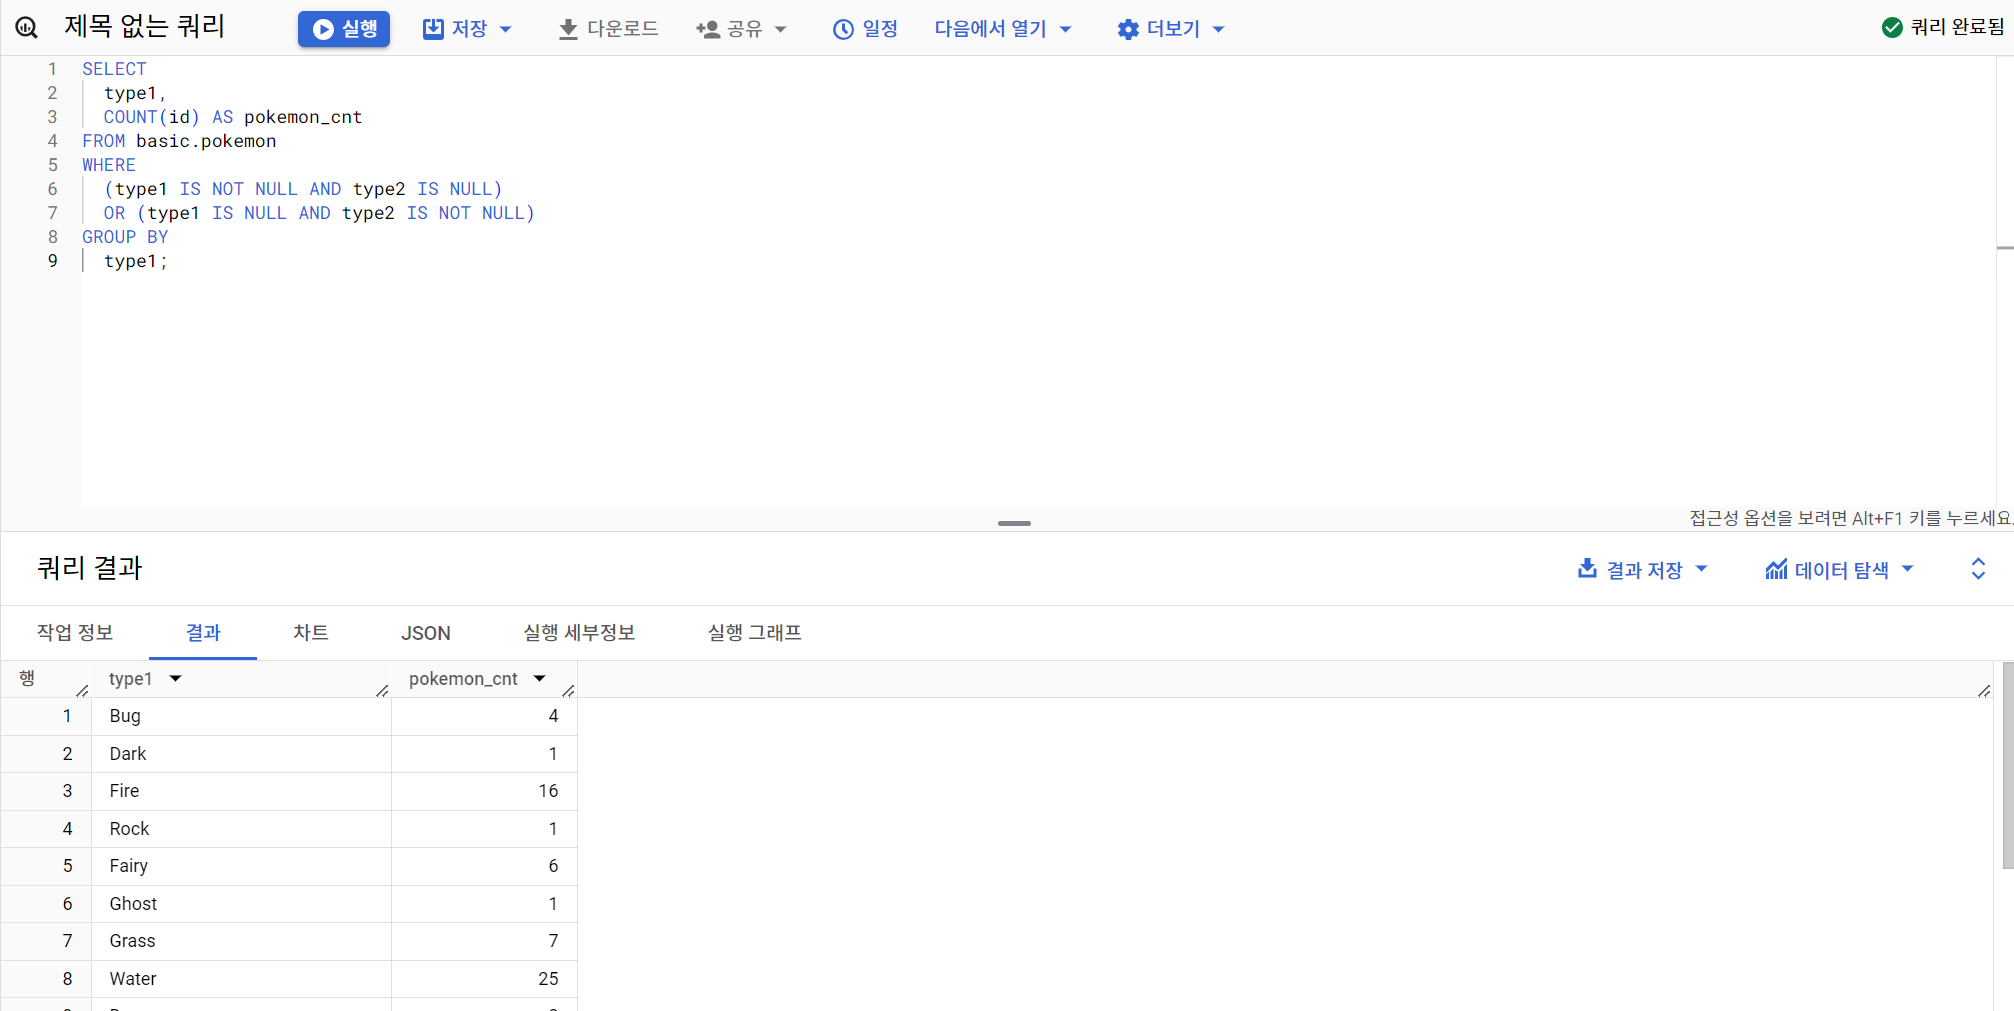
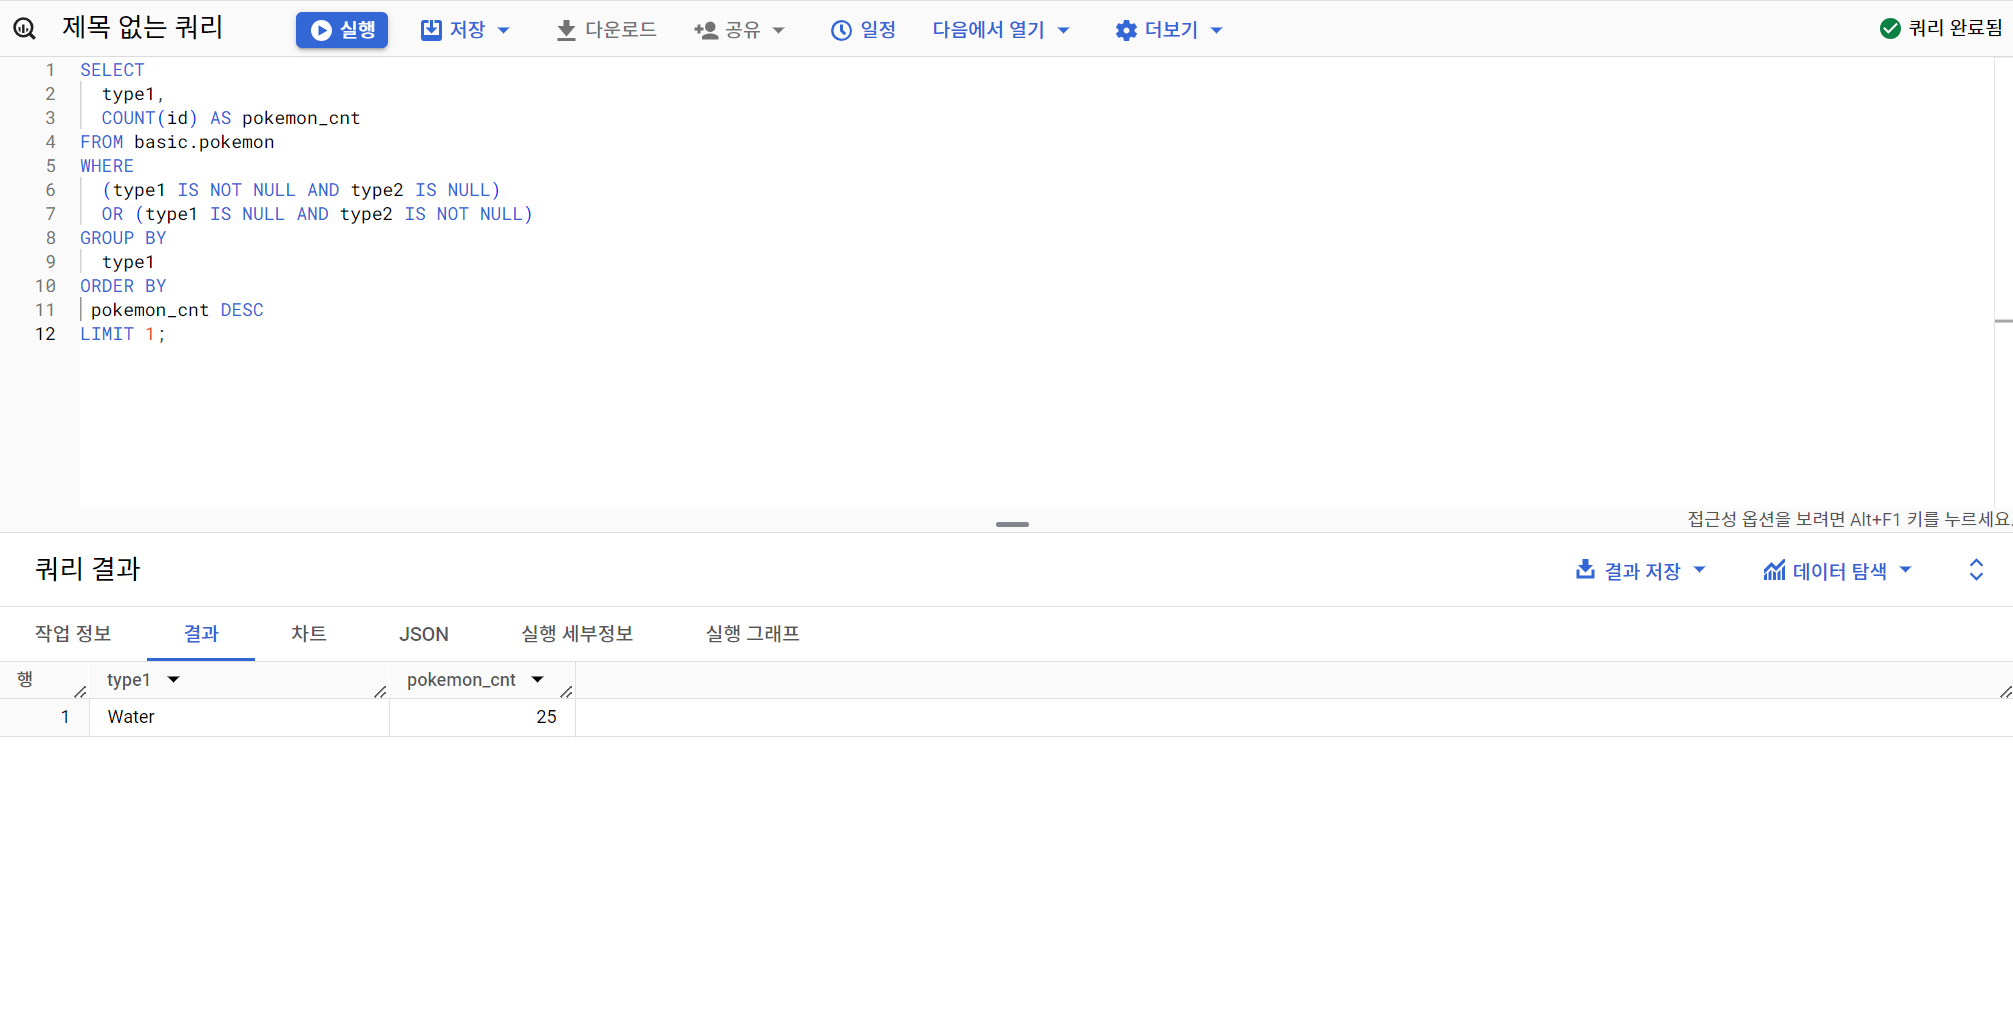
1

diff --git a/Basic Assignment/3rd Week.md b/Basic Assignment/3rd Week.md
@@ -390,7 +390,10 @@ WHERE
   (type1 IS NOT NULL AND type2 IS NULL)
   OR (type1 IS NULL AND type2 IS NOT NULL)
 GROUP BY 
-  type1;
+  type1
+ORDER BY
+ pokemon_cnt DESC
+LIMIT 1;
 ```
 #### 설명
 - 테이블: pokemon
@@ -406,43 +409,252 @@ FROM basic.pokemon
 WHERE 
   type2 IS NULL
 GROUP BY 
-  type1;
+  type1
+ORDER BY
+ pokemon_cnt DESC
+LIMIT 1;
 ```
-![내가 푼 거](/Basic%20Assignment/3rd_week_img/) |![image.jpg2](https://steemitimages.com/0x0/https://static.tasteem.io/uploads/image/image/7293/content_994dbe3f-631b-4f76-9ee1-751c87c668dd.jpeg)
+![내가 푼 거](/Basic%20Assignment/3rd_week_img/Q12.png) |![정답](/Basic%20Assignment/3rd_week_img/Q12_1.png)
+- 두 가지 방법이 있는 것 같은데 확인 한번만 부탁드립니다 :D
+
 ### 13. 포켓몬의 이름에 "파"가 들어가는 포켓몬은 어떤 포켓몬이 있을까요?
 #### 풀이
-* 보여줘야하는 것: 포켓몬 이름
+* 보여줘야하는 것: 포켓몬 이름:한글
 * 조건: 이름에 '파'
+```
+SELECT
+  kor_name
+FROM basic.pokemon
+WHERE
+ kor_name LIKE "파%";
+```
 #### 설명
+- 테이블:  pokemon
+- 조건: name에 '파'가 들어가는 포켓몬
+- 컬럼: 어떤 포켓몬이 있을까요? name
+- 집계: 없음
 #### 정답
+```
+SELECT
+  kor_name
+FROM basic.pokemon
+WHERE
+ kor_name LIKE "%파%";
+```
+- 컬럼 LIKE '특정단어%', %는 단어 앞뒤에 모두 붙을 수 있음
+  - '%파': 파로 끝나는 단어, '파%': 파로 시작하는 단어, '%파%': 파가 들어간 단어
+- 문자열 컬럼에서 특정 단어가 포함되어 있는지 알고 싶은 경우에는 LIKE를 사용하면 편함.
+![13번문제](/Basic%20Assignment/3rd_week_img/Q13.png)
 
 ### 14. 뱃지가 6개 이상인 트레이너는 몇 명이 있나요?
 #### 풀이
 * 보여줘야하는 것: 트레이너 수
 * 조건: 뱃지 >= 6
 * 트레이너 수: count 함수 -> GROUP BY
+```
+SELECT
+  badge_count
+  COUNT(id) AS trainer_cnt
+FROM basic.trainer
+WHERE 
+  badge_count >=6
+GROUP BY
+ badge_count;
+```
 #### 설명
+- 테이블: trainer
+- 조건: 뱃지가 6개 이상(badge_count >=)
+- 컬럼: X
+- 집계: 트레이너의 수(COUNT)
 #### 정답
+```
+SELECT
+  COUNT(id) AS trainer_cnt
+FROM basic.trainer
+WHERE 
+  badge_count >=6;
+```
+![14번문제](/Basic%20Assignment/3rd_week_img/Q14.png)
+#### GPT와 연습
+```
+-- 먼저 badge_count별로 trainer_cnt를 구하고, 그 결과를 서브쿼리로 감쌉니다
+SELECT 
+  CAST(badge_count AS STRING) AS badge_count, -- badge_count를 문자열로 변환
+  trainer_cnt
+FROM (
+  SELECT
+    badge_count,
+    COUNT(id) AS trainer_cnt
+  FROM basic.trainer
+  WHERE 
+    badge_count >= 6
+  GROUP BY
+    badge_count
+)
 
+UNION ALL
+
+-- 총합을 구하는 부분
+SELECT
+  'Total' AS badge_count,  -- 새 행에 "Total" 표시
+  SUM(trainer_cnt) AS trainer_cnt -- trainer_cnt의 합계
+FROM (
+  SELECT
+    badge_count,
+    COUNT(id) AS trainer_cnt
+  FROM basic.trainer
+  WHERE 
+    badge_count >= 6
+  GROUP BY
+    badge_count
+);
+```
+![14번연습](/Basic%20Assignment/3rd_week_img/T14.png)
+- UNION ALL을 사용해 합계 행을 추가
+- UNION ALL을 사용할 때 각 열의 데이터 유형이 일치해야 한다
+  - badge_count는 INT64 형식이지만 합계 행에서는 문자열 'Total'을 사용했기 때문에 문제 발생 -> CAST 또는 CONVERT 함수를 통해 badge_count를 문자열로 변환
+- Aggregations of aggregations are not allowed 오류
+  -  SQL에서는 집계 함수(SUM, COUNT 등)를 또 다른 집계 함수 안에 직접 사용하는 것이 허용되지 않음!
+  - 해결하려면 내부 쿼리를 사용하여 먼저 집계한 다음, 그 결과를 외부 쿼리에서 다시 집계해야 한다.
 ### 15. 트레이너가 보유한 포켓몬(trainer_pokemon)이 제일 많은 트레이너는 누구일까요?
 #### 풀이
-* 보여줘야하는 것: 트레이너 이름
-* 조건: trainer_pokemon이 max
-* MAX: 집계함수 -> GROUP BY
+* 보여줘야하는 것: 트레이너 이름(id)
+* 조건: X
+* 포켓몬 수 COUNT -> GROUP BY
+* 내림차순: DESC
+* LIMTI 1
+```
+SELECT
+ trainer_id,
+ count(pokemon_id) AS pokemon_cnt
+FROM basic.trainer_pokemon
+GROUP BY
+ trainer_id
+ORDER BY
+  cnt DESC
+LIMIT 1;
+```
 #### 설명
+- 테이블: trainer_pokemon
+- 조건: X
+- 컬럼: trainer_id
+- 집계: 포켓몬의 수 -> count
 #### 정답
-
+```
+SELECT
+ trainer_id,
+ count(pokemon_id) AS pokemon_cnt
+FROM basic.trainer_pokemon
+GROUP BY
+ trainer_id;
+```
+![15번문제](/Basic%20Assignment/3rd_week_img/Q15.png)
+- 종류를 보려면 'count(DISTINCT pokemon_id) 사용하기'
 ### 16. 포켓몬을 가장 많이 풀어준 트레이너는 누구일까요?
 #### 풀이
 * 보여줘야하는 것: 트레이너 이름
-* 조건: 풀어준 포켓몬이 max
-* MAX: 집계함수 -> GROUP BY
+* 조건: 풀린 포켓몬
+* 풀린 포켓몬 수 COUNT : 집계함수 -> GROUP BY
+* 내림차순: DESC
+* LIMTI 1
+```
+SELECT
+ trainer_id,
+ count(pokemon_id) AS pokemon_cnt
+FROM basic.trainer_pokemon
+WHERE
+ status = "Released"
+GROUP BY
+ trainer_id
+ORDER BY
+  pokemon_cnt DESC
+LIMIT 1;
+```
 #### 설명
+- 테이블: trainer_pokemon
+- 조건: status = "Released"(풀어준)
+- 컬럼: trainer_id
+- 집계: 많이 풀어준 -> COUNT
 #### 정답
+```
+SELECT
+ trainer_id,
+ count(pokemon_id) AS pokemon_cnt
+FROM basic.trainer_pokemon
+WHERE
+ status = "Released"
+GROUP BY
+ trainer_id
+ORDER BY
+  pokemon_cnt DESC
+LIMIT 1;
+```
+![16번문제](/Basic%20Assignment/3rd_week_img/Q16.png)
 
 ### 17. 트레이너 별로 풀어준 포켓몬의 비율이 20%가 넘은 포켓몬 트레이너는 누구일까요? 풀어준 포켓몬의 비율=(풀어준 포켓몬 수/전체 포켓몬의 수)
 #### 풀이
-* 보여줘야하는 것: 트레이너 이름
+* 보여줘야하는 것: 트레이너 id
 * 조건: 풀어준 포켓몬의 비율 >= 20%
+```
+SELECT
+ trainer_id,
+ count(pokemon_id) AS pokemon_cnt,
+ countif(status = "Released") AS released_pokemon,
+ (released_pokemon/pokemon_cnt) AS Release_Ratio
+FROM basic.trainer_pokemon
+GROUP BY
+ trainer_id
+HAVING
+  Release_Ratio >= 0.2
+```
 #### 설명
+- 테이블: trainer_pokemon
+- 조건: 풀어준 포켓몬의 비율이 20%가 넘어야 한다.
+- 컬럼: trainer_id
+- 집계: COUNTIF
+  - COUNTIF(조건): COUNTIF(컬럼="3")
+  - 조건을 거는 것이라, SELECT 쪽에 COUNT 쓰고, 나중에 WHERE 걸어줘도 괜찮다. 
+  ```
+  SELECT 
+    COUNTIF(trainer_id=17)
+  와
+  SELECT
+    COUNT(id)
+  ...
+  WHERE
+    trainer_id=17
+  는 같다.
+  ```
+
 #### 정답
+```
+SELECT
+ trainer_id,
+ countif(status = "Released") AS released_cnt, # 풀어준 포켓몬의 수
+ count(pokemon_id) AS pokemon_cnt,
+ countif(status = "Released")/COUNT(pokemon_id) AS released_ratio # 이런 식으로 SELECT 절에서 연산을 수행할 수 있다.
+FROM basic.trainer_pokemon
+GROUP BY
+ trainer_id
+HAVING
+  Release_Ratio >= 0.2;
+```
+![17번문제](/Basic%20Assignment/3rd_week_img/Q17.png)
+
+#### GPT와 연습
+```
+SELECT
+  trainer_id,
+  COUNT(pokemon_id) AS pokemon_cnt,
+  COUNTIF(status = "Released") AS released_pokemon, -- released_pokemon 계산
+  (COUNTIF(status = "Released") * 1.0 / COUNT(pokemon_id)) AS Release_Ratio -- Release_Ratio 계산
+FROM basic.trainer_pokemon
+GROUP BY
+  trainer_id
+HAVING
+  (COUNTIF(status = "Released") * 1.0 / COUNT(pokemon_id)) >= 0.2; -- Release_Ratio를 직접 계산
+```
+- SELECT 절에서 정의된 별칭(released_pokemon과 Release_Ratio)을 HAVING 절에서 직접 참조할 수 없기 때문에 오류 발생. SQL에서는 HAVING 절이 SELECT 절보다 먼저 처리되기 때문에 별칭을 인식하지 못합니다.
+- 이를 해결하려면 HAVING 절에서 직접 계산식이나 집계 함수를 다시 사용해야 합니다.
+  - HAVING 절에서 (COUNTIF(status = "Released") * 1.0 / COUNT(pokemon_id)) >= 0.2로 직접 비율을 계산했습니다.
+![17번연습](/Basic%20Assignment/3rd_week_img/T17.png)
